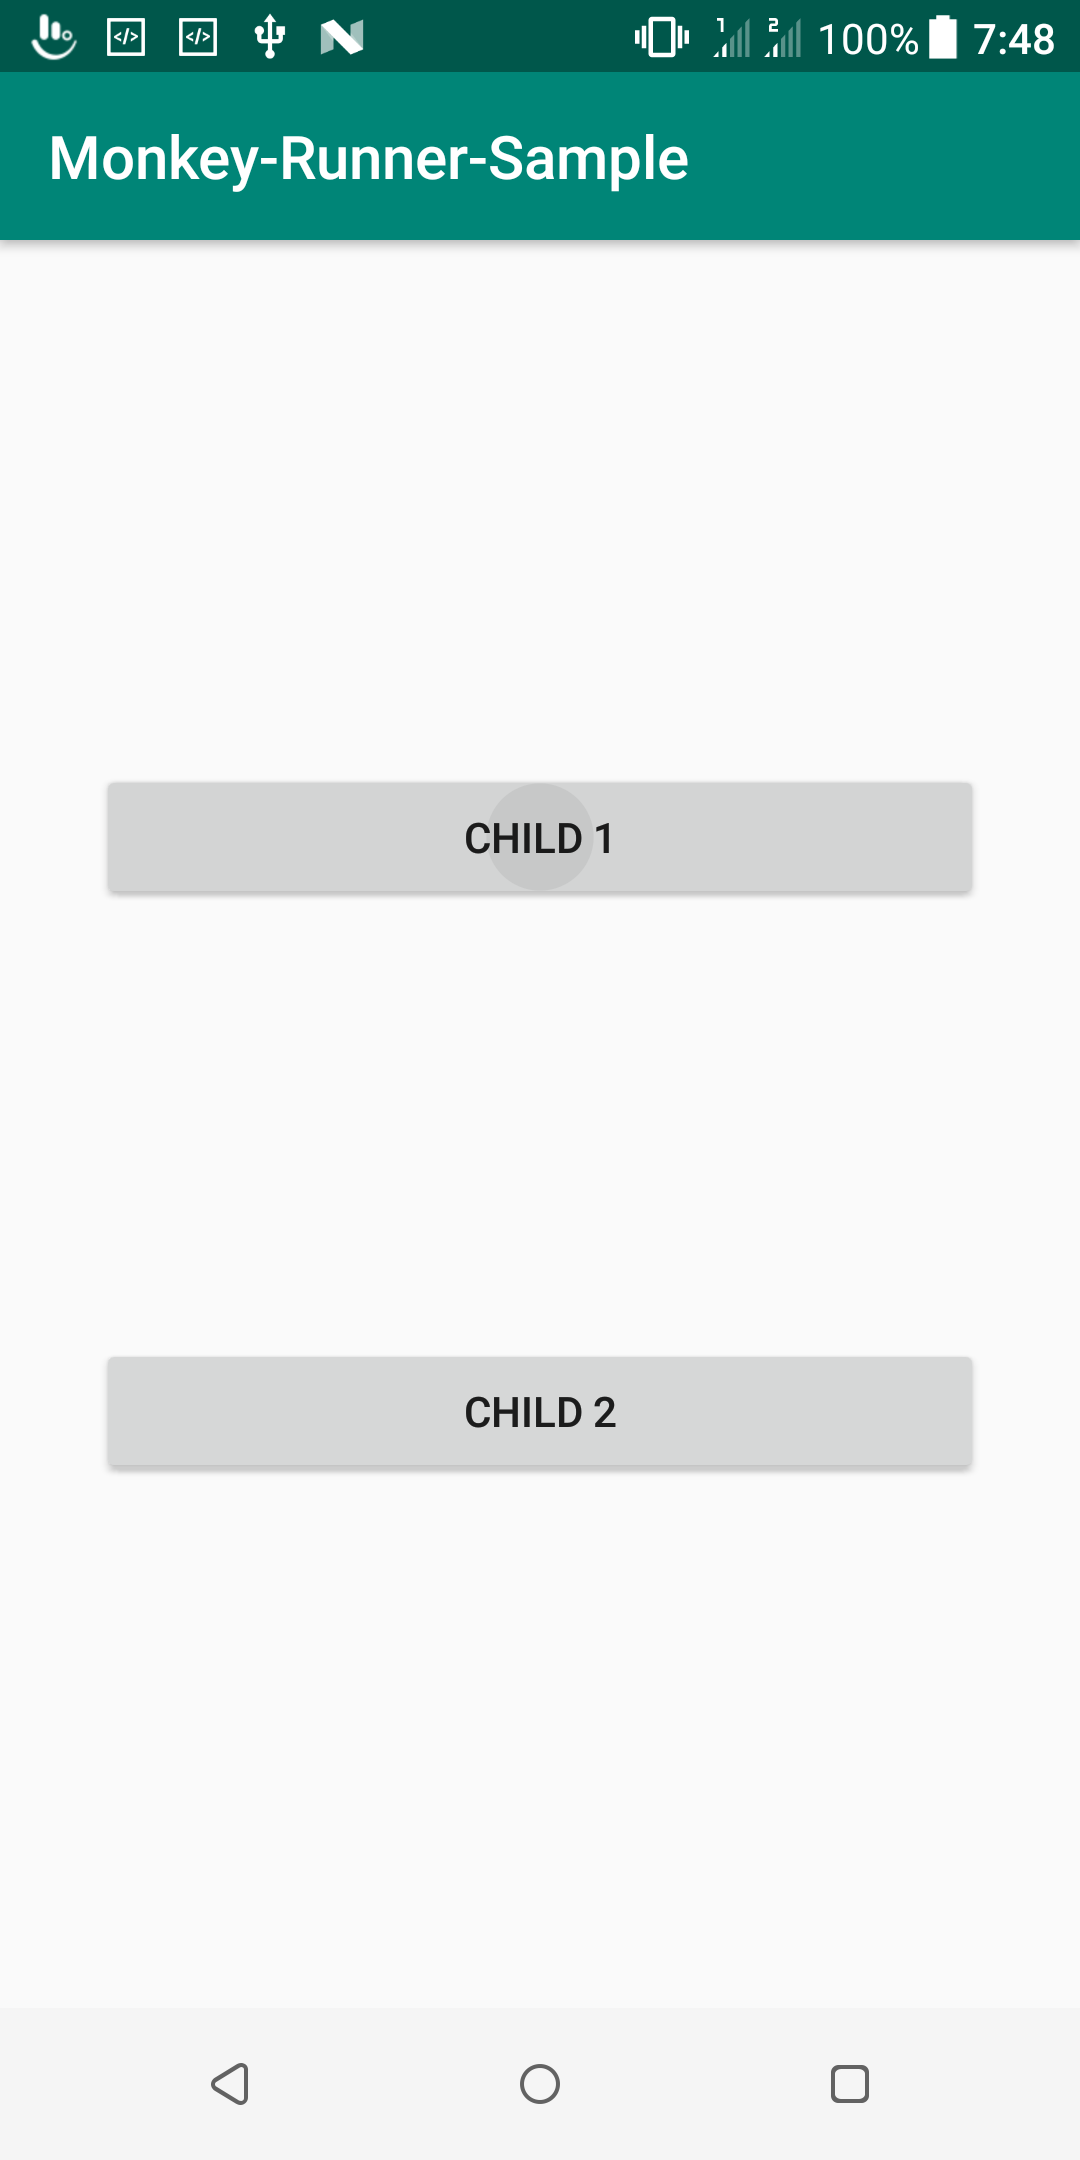
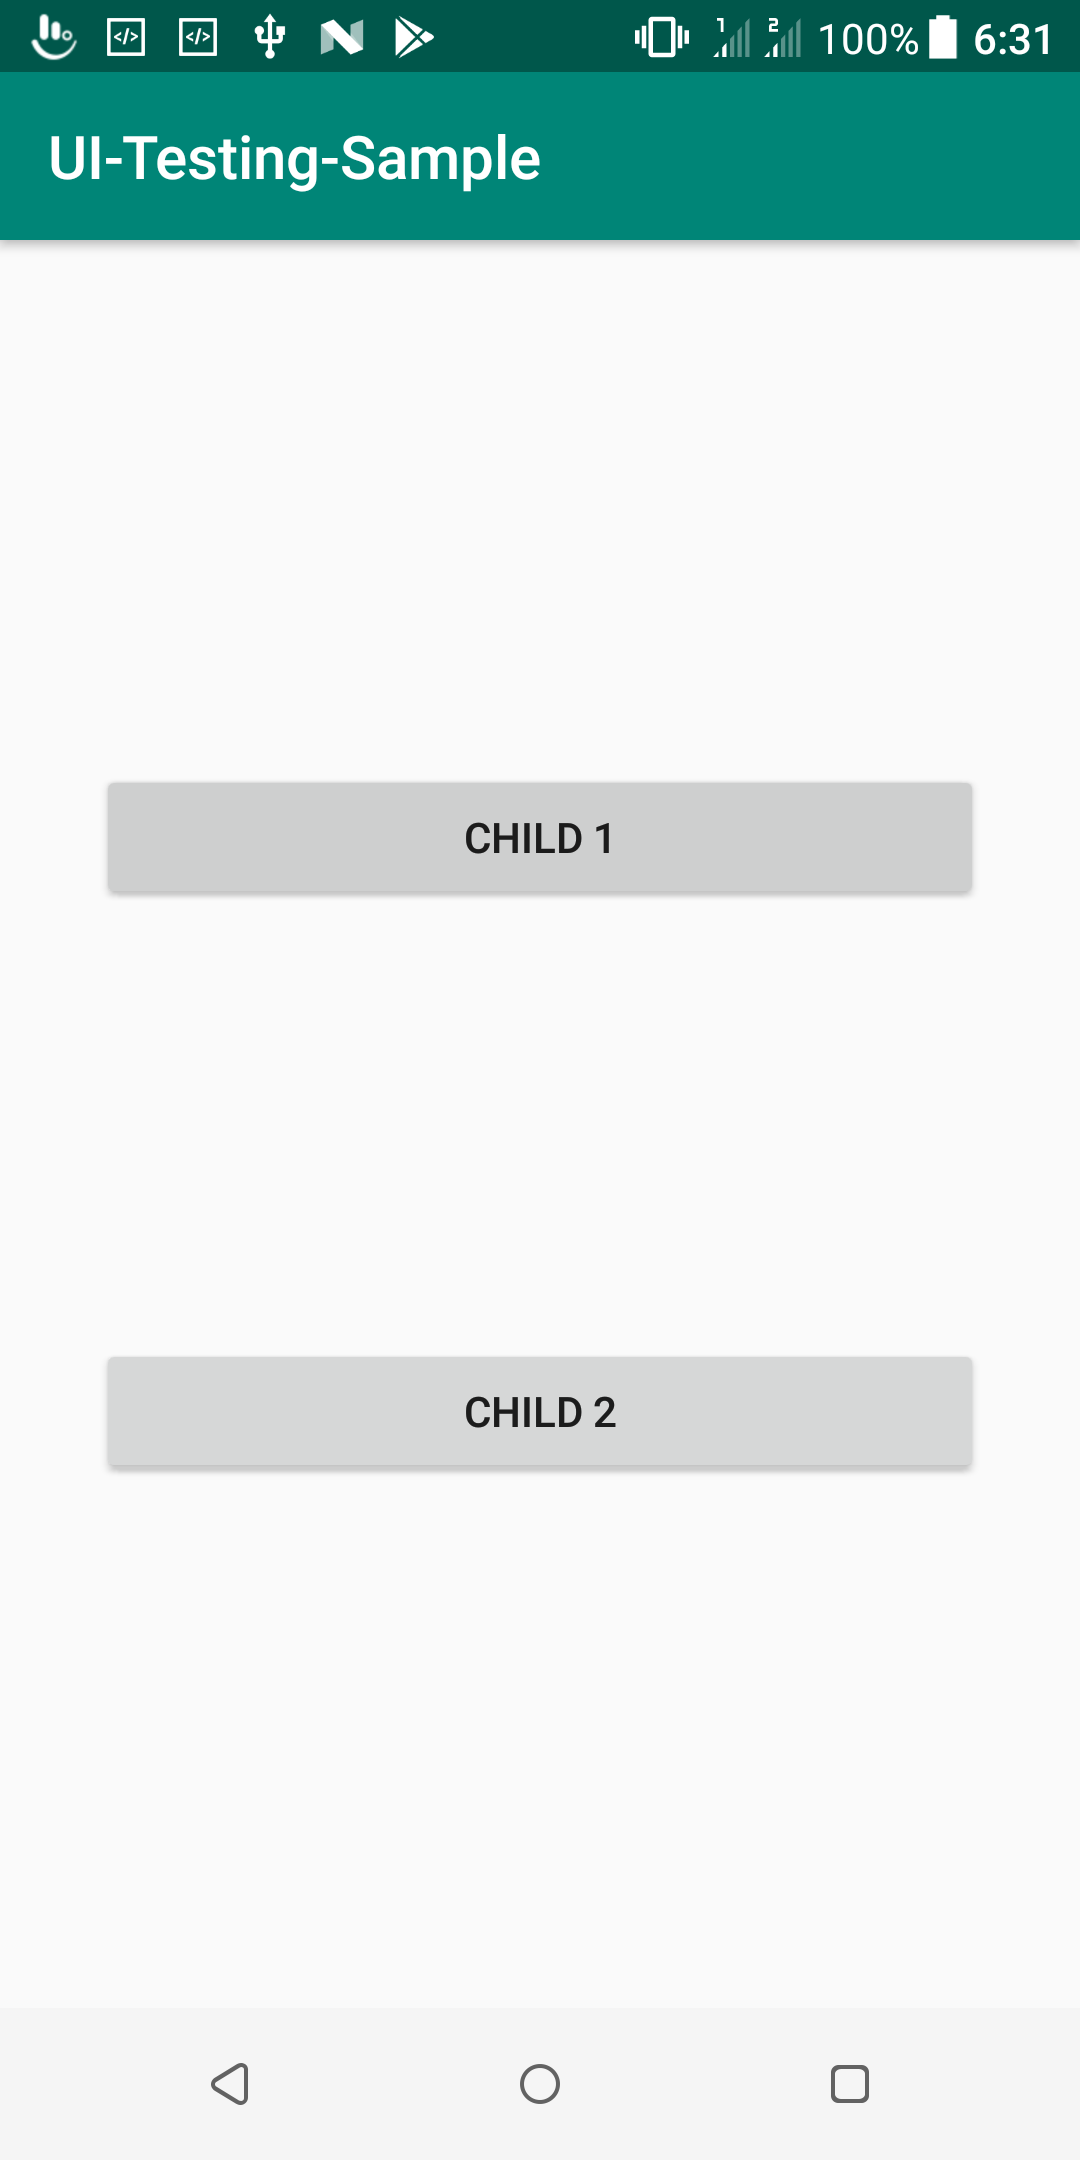
Some fix due to renaming

Changed region(s): [[0.0306, 0.062, 0.6417, 0.0931], [0.8861, 0.0, 0.9778, 0.031], [0.3667, 0.0, 0.3972, 0.031]]

diff --git a/UI-Testing-Samples/scripts/simple.py b/UI-Testing-Samples/scripts/simple.py
@@ -15,8 +15,8 @@ def press_with_screenshot(code, path):
 device = MonkeyRunner.waitForConnection()
 
 directory = '.'
-package = 'com.example.monkey_runner_sample'
-activity = 'com.example.monkey_runner_sample.MainActivity'
+package = 'com.example.ui_testing_samples'
+activity = 'com.example.ui_testing_samples.MainActivity'
 
 # Installs the Android package. Notice that this method returns a boolean, so you can test
 # to see if the installation worked.
